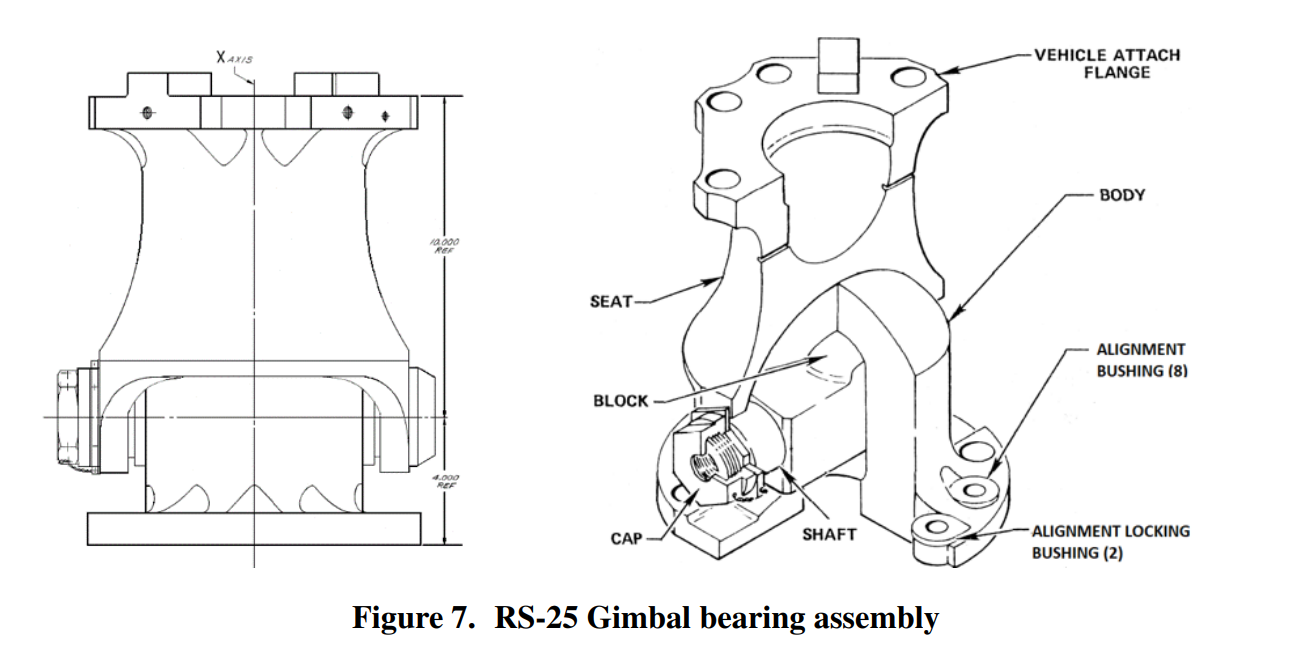
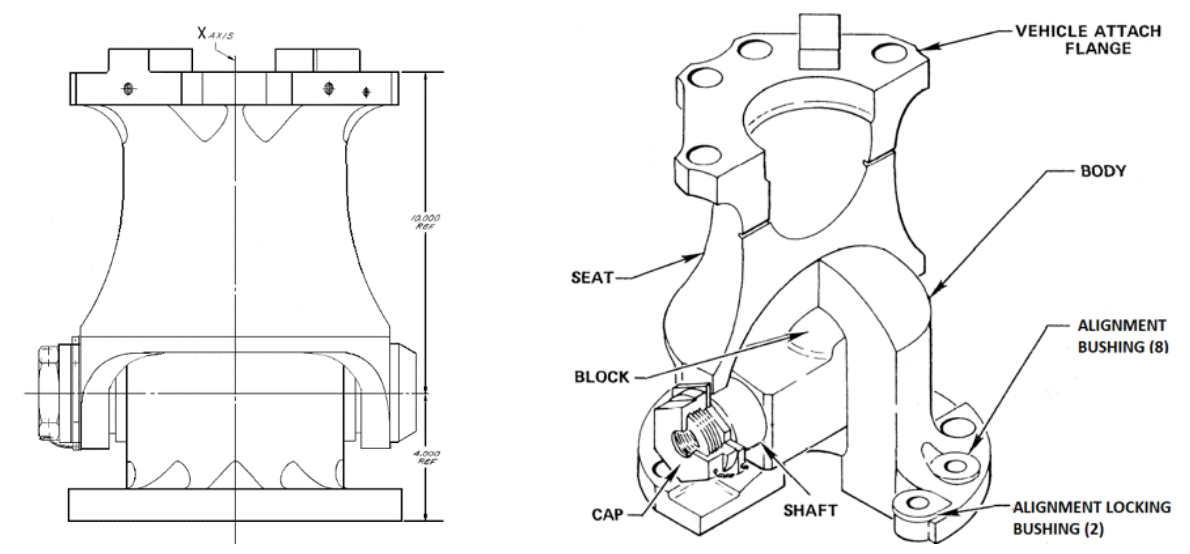
Trade-Off report finalized_V0

diff --git a/docs/WP2/WP2.1_Trade-Off-Report.md b/docs/WP2/WP2.1_Trade-Off-Report.md
@@ -64,22 +64,24 @@ This document presents the Gimbal Mount Assembly (GMA) Trade-Off Report. The obj
 
 [RD7] P.Vinet - NYX Moon - Huracan Development Logic - TEC-FRA-DOC-2024-01004 - Bordeaux 2024
 
+[RD8] A.Lukanowski - 20260309_Luka_GMA_Tradeoff_Decision Matrix.xlsx / Excel file - Luebeck 2026
+
 \clearpage
 
 # 2. Trade-Off 
 
 ## 2.1. Philosophy and criteria
 
-The trade-off philosophy for this specific use case is to have a design that is *safe, simple and achievable* within the time frame. This philosophy is given by the low TRL of the GMA in the current project state (here: TRL 1/2) and programmatic constraints (e.g. delivery of a functional model before DM2). The objective is to deliver a functional model on schedule by keeping it as simple as possible and only as complex as necessary considering technical feasibility constraints.
+The trade-off philosophy for this specific use case is to have a design that is *safe, simple and achievable* within the time frame. This philosophy is given by the low Technology Readiness Level (TRL) of the GMA in the current project state (here: TRL 1/2) and programmatic constraints (e.g. delivery of a functional model before DM2). The objective is to deliver a functional model on schedule by keeping it as simple as possible and only as complex as necessary considering technical feasibility constraints.
 
 **Program criteria**  
   Programmatic aspects are associated to "The How and When"-question, which shall address the lifecycle, constraints and hence the success of the project. For this project, the focus of this criteria is mainly the schedule (timeline, lead time), execution (supply chain / manufacturing) and testability. 
 
 **Functional criteria**  
-  The functional criteria refer to the question "What?", which is linked to the control authority needs. Those key performance requirements [RD1] are the gimbal angle, angular speed and precision. In addition, the mass requirement is directly associated to the overall mass budget, while the volume envelops the geometrical constraint to fullfill the key requirements (e.g. clearance vs. gimbal angle) and the integration. 
+  The functional criteria refer to the question "What?", which is linked to the control authority needs. Those key performance requirements [RD1] are the gimbal angle, angular speed and precision. In addition, the mass requirement is directly associated to the overall mass budget, while the volume envelopes the geometrical constraint to fulfill the key requirements (e.g. clearance vs. gimbal angle) and the integration. 
 
 **Feasibility criteria**  
-  The "If"-question is covered by feasability aspects, which refer to technical risks reduction, related to its Technology Readyness Level (TRL), the design complexity (part count, tolerance sensitivity etc.) and its load capability (thermal and mechanical).
+  The "If"-question is covered by feasability aspects, which refer to technical risks reduction, related to its TRL, the design complexity (part count, tolerance sensitivity, inspectability) and its load capability (thermal and mechanical).
   
 ## 2.2. Methodology
 
@@ -101,9 +103,7 @@ Considering the trade-off philosophy *"safe, simple, achievable"*, the scaling v
 
 ![Pairwise Comparison Matrix [RD6]](figures/20260311_Luka_Trade-Off_AHP_Pairwise Comparison Matrix.png)
 
-The computed plausibility of the assignment is given by a consistency of 4 % (<10 % for successful consistency). The resulting rankings of the criteria are:
-
-The AHP weights and rankings are shown in the table below. 
+The computed plausibility of the assignments is given by a consistency of 4 % (<10 % for successful consistency required). The resulting AHP weights and related rankings of the criteria listed below.
 
 |**Criteria**|**AHP**|**Ranking**|
 |---|---|---|
@@ -135,31 +135,68 @@ Regarding complexity (11.3 %, Rank 4), the results indicate that more complex de
 Overall, the weighting generated by the AHP analysis aligns well with the philosophy intentions mentioned above, emphasizing programmatic reliability and technological maturity over purely performance-driven optimization.
 
 ## 2.4. Design options
-Several methods exist for Thrust Vector Control Systems (TVC) of a vehicle. Some examples are auxiliary jets, secondary injection or a gimbaled engine [RD5]. The focus in this study is the gimbaled engine option as it is the most common used one. It consists of a gimbal mechanism, that provides the rotational degree of freedom in two perpendicular axes (pitch and yaw) and two actuators, which power the engine´s movement. Three main GMA options are described briefly by their geometrical type.
+Several methods exist for Thrust Vector Control Systems (TVC) of vehicles. Some examples are auxiliary jets, secondary injection or a gimbaled engine [RD5]. Common approaches include auxiliary jet systems, secondary injection, or a gimbaled engine configuration [RD5]. In this study, the focus is placed on the gimbaled engine solution, as it represents the most widely used and mature concept for rocket propulsion systems.
+
+A gimbaled engine system consists of a Gimbal Mount Assembly (GMA), which provides rotational degrees of freedom about two perpendicular axes (pitch and yaw), and two actuators, which generate the required engine deflection. Different GMA architectures exist, primarily distinguished by their geometric configuration. The three main concepts considered in this study are briefly described below.
 
 **Ring-type**  
-A classical Ring-type GMA design is shown below. It typically consists of a lower support structure that is typically attached on the top of the Injection Head (IH). A gimbal ring interfaces this lower structure with an upper structure, that is connected with the thrust frame of the vehicle. The rotational degree of freedom is realized by four bearings, which are clocked in a 90° arrangement. This design is widely used in sovjet engines, where the propellant-duct passes through the core (vertical) axis of the gimbal respectively engine.  
+A classical Ring-type GMA design is shown in the figure below. It consists of a lower support structure that is typically attached on the top of the Injection Head (IH). A gimbal ring interfaces this lower structure with an upper structure, that is connected with the thrust frame of the vehicle. The rotational degree of freedom is realized by four bearings, which are clocked in an 90° arrangement. This design is widely used in engines, where clearance is needed through the vertical center of the engine (e.g. propellant-duct).  
 
 ![Ring-type GMA [RD5]](figures/20260311_Luka_Trade-Off_Ring_type gimbal.png){width=37%}
 
 **Cross-type**  
-The ring-type GMA described above is related to the cross-type design. The main difference is the compactness and stiffness benefits of the cross-type as it features no capability to pass through a propellant-duct. The bearings inner races are supported by an monolithc cross-shaped bolt unit (also clocked by 90°). The outer races of the bearings are connected to an lower and upper retainer or housing in analogy to the lower and upper support of the ring-type GMA. The figure below illustrates the cross-type GMA exemplarily as it was developed for the VINCI upper stage engine. 
+The cross-type GMA is closely related to the ring-type design but offers improvements in structural stiffness and compactness. Unlike the ring-type configuration, it does not provide a central opening for routing components such as propellant ducts.
 
-![Cross-type GMA developed for VINCI](figures/20260311_Luka_Trade-Off_Cross-type gimbal.png){width=37%}
+In this design, the inner races of the bearings are supported by a monolithic cross-shaped bolt structure, with the bearing axes arranged at 90°. The outer races are mounted within upper and lower retainers or housings, which function similarly to the upper and lower support structures of the ring-type configuration.
+
+An example of this architecture is the GMA developed for the VINCI upper-stage engine, as shown in figure. 
+
+![Cross-type GMA developed for VINCI](figures/20260311_Luka_Trade-Off_Cross-type gimbal.png){width=32%}
 
 **Spherical-type**  
-The spherical-type of GMA provides the highest load capability combined with a compact design. It consists of a lower / upper flange, that is connected to the engine / vehicle. The gimbal mechanism features a ball-and socket joint with convex and concave spherical surfaces that are interfaced by an Teflon-fiber-glass composite to provide maintanance-free and low friction relative motion. The image below shows a spherical-type GMA as it was / is utilized for the RS-25 and Vulcain 2 core stage engine. 
+The spherical-type GMA provides high load capability combined with a relatively compact structural design. It consists of upper and lower flanges, which connect the engine to the vehicle structure.
 
-![Spherical-type GMA [RD5]](figures/20260311_Luka_Trade-Off_Spherical-type gimbal 2.png){width=60%}
+The gimbal mechanism itself is implemented as a ball-and-socket joint, formed by convex and concave spherical surfaces. These surfaces are typically interfaced by a Teflon–fiber-glass composite layer, which provides low friction and enables a maintenance-free operation.
+
+This concept has been used in high-performance engines such as the RS-25 and Vulcain 2 core stage engines.
+
+![Spherical-type GMA [RD5]](figures/20260311_Luka_Trade-Off_Spherical-type gimbal 2.png){width=75%}
 
 ## 2.5. Decision matrix
+The ring-, cross-, and spherical-type gimbal mount concepts are evaluated using a weighted decision matrix. The weighting factors applied in the comparison are derived from the previously conducted AHP analysis, which defines the relative importance of the considered evaluation criteria.
 
-## 2.6. Conclusion and final concept
-Three different concepts exist in rocketry for gimbal mechanisms:
-- Ring type
-- Spherical type
-- Cross type
-- Other
+Each concept is assessed using a qualitative scoring scale ranging from 1 to 5, where:
+
+- 1 represents poor performance
+- 3 represents moderate performance
+- 5 represents excellent performance
+
+The assigned scores are based on engineering judgement, available literature, and expected mechanical and thermal characteristics of the respective gimbal architectures.
+
+For the final evaluation, the individual scores are multiplied by the corresponding AHP-derived importance factors, and the resulting values are summed across all criteria to obtain the weighted score for each concept. The decision matrix shown below summarizes the evaluation results, while the subsequent table presents both the unweighted totals and the weighted scores derived from the applied methodology.
+
+![Decision matrix [RD8]](figures/20260313_Luka_Trade-Off_Decision Matrix.png){width=65%}
+
+|**Gimbal type**|**Unweighted score**|**Weighted score @AHP**|
+|---|---|---|
+|Ring-type|26|3.5|
+|Cross-type|27|3.2|
+|Spherical-type|27|2.7|
+: Gimbal types scored unweighted / weighted
+
+Although the cross-type and spherical-type mounts achieve slightly higher raw scores, the ring-type gimbal mount obtains the highest weighted score due to strong performance in the most critical criteria, particularly testability and TRL
+
+## 2.6. Summary and conclusion
+
+A trade-off analysis was performed to compare three candidate gimbal architectures: ring-type, cross-type, and spherical-type mechanisms. The evaluation considered programmatic, functional, and feasibility-related criteria. The relative importance of each criterion was derived from a prior AHP, and each concept was scored on a qualitative scale from 1 (poor) to 5 (excellent). The final ranking was obtained by applying the AHP-derived importance weights to the individual scores.
+
+Based on the applied methodology and weighting scheme, the ring-type gimbal configuration achieves the highest weighted score and therefore appears to provide the most favorable overall balance among the evaluated criteria. In particular, this concept aligns well with the current geometric constraints of the surrounding engine architecture, where the available peripheral space favor a ring-type arrangement. This is mainly driven by the position of the Ignition System (IGS) and its connectors. 
+
+![IH-IGS configuration in CAD](figures/20260311_Luka_Trade-Off_IH_IGS.png){width=40%}
+
+However, it should be noted that these geometric constraints are dependent on the present system layout and may evolve as the overall design matures. Changes in the surrounding structural configuration and available integration volume could reduce or eliminate this advantage.
+
+Consequently, while the ring-type configuration presently emerges as the most suitable option according to the weighted trade-off analysis, the cross-type concept remains a viable alternative, especially if future design iterations modify the geometric boundary conditions. The results of this trade-off should therefore be interpreted as a recommendation under the current design assumptions, rather than as a final or irreversible selection.
 
 \clearpage
 
@@ -171,6 +208,8 @@ The acronyms used in this document are listed below.
 |AHP|Analytic Hierarchy Process|
 |DM2|Development Model 2|
 |GMA|Gimbal Mount Assembly|
+|IGS|Ignition System|
 |IH|Injection Head flange|
 |TRL|Technology Readiness Level|
 |TVC|Thrust Vector Control|
+: Acronyms